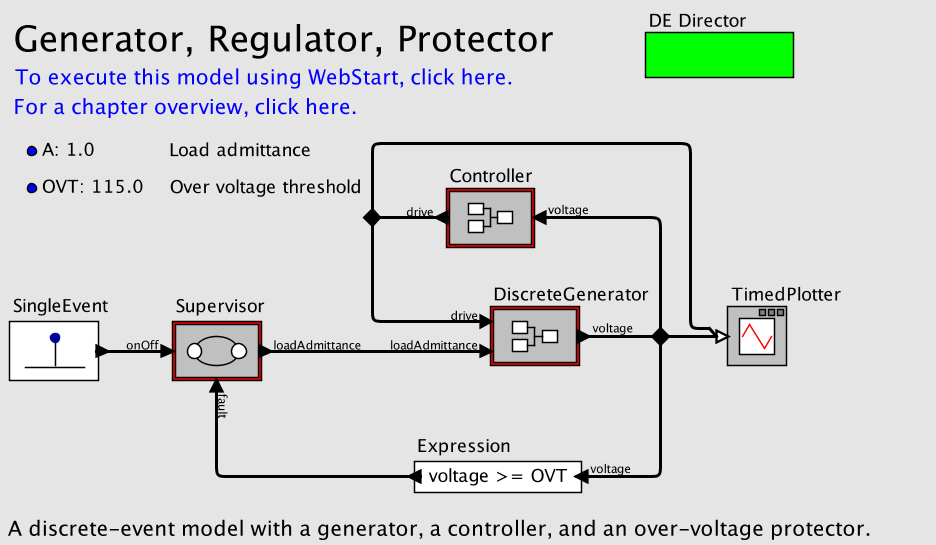
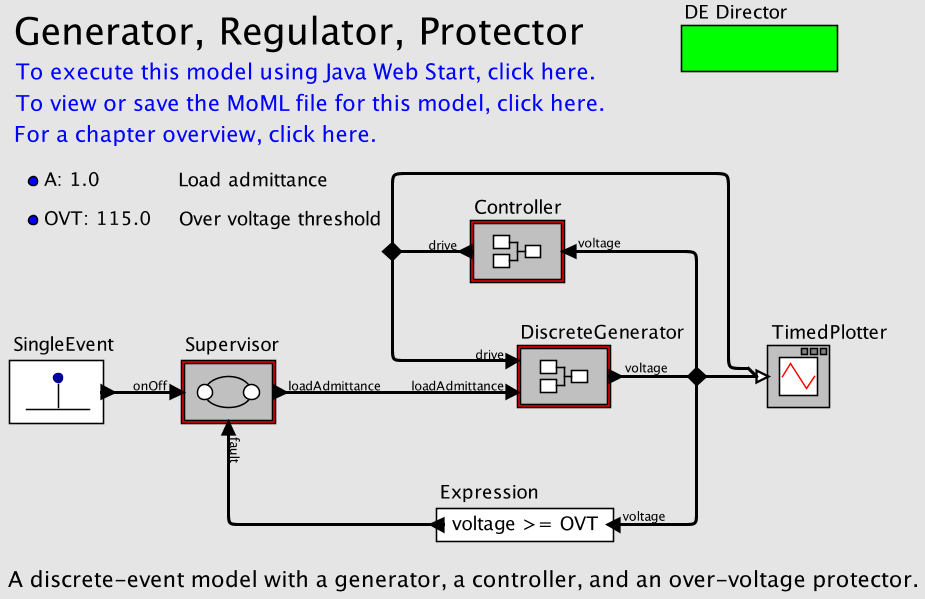
Changed URL for webstart version

Changed region(s): [[0.0, 0.0312, 0.9686, 0.9046], [0.0, 0.9358, 0.9989, 0.9982], [0.6659, 0.0, 0.9081, 0.156]]

diff --git a/doc/books/systems/intro/GeneratorRegulatorProtector/index.html b/doc/books/systems/intro/GeneratorRegulatorProtector/index.html
@@ -17,22 +17,24 @@ function writeText(text) {
 <div style="background-color:#e5e5e5">
 <img src="GeneratorRegulatorProtector.png" usemap="#iconmap" alt="GeneratorRegulatorProtectormodel"/>
 <map name="iconmap" id="iconmap">
-<area shape="rect" coords="11,93,359,121"
+<area shape="rect" coords="11,120,378,150"
  target="_blank" href="http://ptolemy.org/systems/intro/index.html" alt="Actor"/>
-<area shape="rect" coords="11,64,515,92"
- target="_blank" href="http://ptolemy.org/systems/intro/GeneratorRegulatorProtectorWS/index.html" alt="Actor"/>
-<area shape="rect" coords="437,179,543,255"
- title="Controller" onmouseout="writeText('Mouse over the icons to see their parameters.  Click on composites and plotters to reveal their contents (if provided).')" href="Controller/index.html" onmouseover="writeText('&lt;h2&gt;Controller&lt;/h2&gt;&lt;table border=&quot;1&quot;&gt;&lt;tr&gt;&lt;td&gt;&lt;b&gt;Parameter&lt;/b&gt;&lt;/td&gt;&lt;td&gt;&lt;b&gt;Expression&lt;/b&gt;&lt;/td&gt;&lt;td&gt;&lt;b&gt;Value&lt;/b&gt;&lt;/td&gt;&lt;/tr&gt;&lt;tr&gt;&lt;td&gt;_flipPortsHorizontal&lt;/td&gt;&lt;td&gt;true&lt;/td&gt;&lt;td&gt;true&lt;/td&gt;&lt;/tr&gt;&lt;/table&gt;')" alt="Controller"/>
-<area shape="rect" coords="482,298,587,374"
- title="DiscreteGenerator" onmouseout="writeText('Mouse over the icons to see their parameters.  Click on composites and plotters to reveal their contents (if provided).')" href="DiscreteGenerator/index.html" onmouseover="writeText('&lt;h2&gt;DiscreteGenerator&lt;/h2&gt;&lt;table border=&quot;1&quot;&gt;&lt;tr&gt;&lt;td&gt;&lt;b&gt;Parameter&lt;/b&gt;&lt;/td&gt;&lt;td&gt;&lt;b&gt;Expression&lt;/b&gt;&lt;/td&gt;&lt;td&gt;&lt;b&gt;Value&lt;/b&gt;&lt;/td&gt;&lt;/tr&gt;&lt;tr&gt;&lt;td&gt;T&lt;/td&gt;&lt;td&gt;5.0&lt;/td&gt;&lt;td&gt;5.0&lt;/td&gt;&lt;/tr&gt;&lt;tr&gt;&lt;td&gt;Z&lt;/td&gt;&lt;td&gt;1.0&lt;/td&gt;&lt;td&gt;1.0&lt;/td&gt;&lt;/tr&gt;&lt;tr&gt;&lt;td&gt;P&lt;/td&gt;&lt;td&gt;1.0&lt;/td&gt;&lt;td&gt;1.0&lt;/td&gt;&lt;/tr&gt;&lt;/table&gt;')" alt="DiscreteGenerator"/>
-<area shape="rect" coords="163,313,269,389"
- title="Supervisor" onmouseout="writeText('Mouse over the icons to see their parameters.  Click on composites and plotters to reveal their contents (if provided).')" href="Supervisor/index.html" alt="Supervisor"/>
-<area shape="rect" coords="410,457,585,496"
+<area shape="rect" coords="11,89,607,118"
+ target="_blank" href="http://ptolemy.org/systems/intro/GeneratorRegulatorProtector.xml" alt="Actor"/>
+<area shape="rect" coords="11,58,597,87"
+ target="_blank" href="http://ptolemy.org/systems/models/intro/GeneratorRegulatorProtector.htm" alt="Actor"/>
+<area shape="rect" coords="461,211,572,291"
+ title="Controller" onmouseout="writeText('Mouse over the icons to see their parameters.  Click on composites and plotters to reveal their contents (if provided).')" onmouseover="writeText('&lt;h2&gt;Controller&lt;/h2&gt;&lt;table border=&quot;1&quot;&gt;&lt;tr&gt;&lt;td&gt;&lt;b&gt;Parameter&lt;/b&gt;&lt;/td&gt;&lt;td&gt;&lt;b&gt;Expression&lt;/b&gt;&lt;/td&gt;&lt;td&gt;&lt;b&gt;Value&lt;/b&gt;&lt;/td&gt;&lt;/tr&gt;&lt;tr&gt;&lt;td&gt;_flipPortsHorizontal&lt;/td&gt;&lt;td&gt;true&lt;/td&gt;&lt;td&gt;true&lt;/td&gt;&lt;/tr&gt;&lt;/table&gt;')" alt="Controller"/>
+<area shape="rect" coords="508,336,619,416"
+ title="DiscreteGenerator" onmouseout="writeText('Mouse over the icons to see their parameters.  Click on composites and plotters to reveal their contents (if provided).')" onmouseover="writeText('&lt;h2&gt;DiscreteGenerator&lt;/h2&gt;&lt;table border=&quot;1&quot;&gt;&lt;tr&gt;&lt;td&gt;&lt;b&gt;Parameter&lt;/b&gt;&lt;/td&gt;&lt;td&gt;&lt;b&gt;Expression&lt;/b&gt;&lt;/td&gt;&lt;td&gt;&lt;b&gt;Value&lt;/b&gt;&lt;/td&gt;&lt;/tr&gt;&lt;tr&gt;&lt;td&gt;T&lt;/td&gt;&lt;td&gt;5.0&lt;/td&gt;&lt;td&gt;5.0&lt;/td&gt;&lt;/tr&gt;&lt;tr&gt;&lt;td&gt;Z&lt;/td&gt;&lt;td&gt;1.0&lt;/td&gt;&lt;td&gt;1.0&lt;/td&gt;&lt;/tr&gt;&lt;tr&gt;&lt;td&gt;P&lt;/td&gt;&lt;td&gt;1.0&lt;/td&gt;&lt;td&gt;1.0&lt;/td&gt;&lt;/tr&gt;&lt;/table&gt;')" alt="DiscreteGenerator"/>
+<area shape="rect" coords="172,352,283,431"
+ title="Supervisor" onmouseout="writeText('Mouse over the icons to see their parameters.  Click on composites and plotters to reveal their contents (if provided).')" onmouseover="writeText('&lt;h2&gt;Supervisor&lt;/h2&gt;&lt;table border=&quot;1&quot;&gt;&lt;tr&gt;&lt;td&gt;&lt;b&gt;Parameter&lt;/b&gt;&lt;/td&gt;&lt;td&gt;&lt;b&gt;Expression&lt;/b&gt;&lt;/td&gt;&lt;td&gt;&lt;b&gt;Value&lt;/b&gt;&lt;/td&gt;&lt;/tr&gt;&lt;tr&gt;&lt;td&gt;stateDependentCausality&lt;/td&gt;&lt;td&gt;false&lt;/td&gt;&lt;td&gt;false&lt;/td&gt;&lt;/tr&gt;&lt;tr&gt;&lt;td&gt;directorClass&lt;/td&gt;&lt;td&gt;ptolemy.domains.modal.kernel.FSMDirector&lt;/td&gt;&lt;td&gt;ptolemy.domains.modal.kernel.FSMDirector&lt;/td&gt;&lt;/tr&gt;&lt;/table&gt;')" alt="Supervisor"/>
+<area shape="rect" coords="432,504,617,545"
  title="Expression" onmouseout="writeText('Mouse over the icons to see their parameters.  Click on composites and plotters to reveal their contents (if provided).')" onmouseover="writeText('&lt;h2&gt;Expression&lt;/h2&gt;&lt;table border=&quot;1&quot;&gt;&lt;tr&gt;&lt;td&gt;&lt;b&gt;Parameter&lt;/b&gt;&lt;/td&gt;&lt;td&gt;&lt;b&gt;Expression&lt;/b&gt;&lt;/td&gt;&lt;td&gt;&lt;b&gt;Value&lt;/b&gt;&lt;/td&gt;&lt;/tr&gt;&lt;tr&gt;&lt;td&gt;expression&lt;/td&gt;&lt;td&gt;voltage &amp;gt;= OVT&lt;/td&gt;&lt;td&gt;voltage &amp;gt;= OVT&lt;/td&gt;&lt;/tr&gt;&lt;tr&gt;&lt;td&gt;_flipPortsHorizontal&lt;/td&gt;&lt;td&gt;true&lt;/td&gt;&lt;td&gt;true&lt;/td&gt;&lt;/tr&gt;&lt;/table&gt;')" alt="Expression"/>
-<area shape="rect" coords="1,313,106,389"
+<area shape="rect" coords="1,352,112,431"
  title="SingleEvent" onmouseout="writeText('Mouse over the icons to see their parameters.  Click on composites and plotters to reveal their contents (if provided).')" onmouseover="writeText('&lt;h2&gt;SingleEvent&lt;/h2&gt;&lt;table border=&quot;1&quot;&gt;&lt;tr&gt;&lt;td&gt;&lt;b&gt;Parameter&lt;/b&gt;&lt;/td&gt;&lt;td&gt;&lt;b&gt;Expression&lt;/b&gt;&lt;/td&gt;&lt;td&gt;&lt;b&gt;Value&lt;/b&gt;&lt;/td&gt;&lt;/tr&gt;&lt;tr&gt;&lt;td&gt;time&lt;/td&gt;&lt;td&gt;15.0&lt;/td&gt;&lt;td&gt;15.0&lt;/td&gt;&lt;/tr&gt;&lt;tr&gt;&lt;td&gt;value&lt;/td&gt;&lt;td&gt;true&lt;/td&gt;&lt;td&gt;true&lt;/td&gt;&lt;/tr&gt;&lt;/table&gt;')" alt="SingleEvent"/>
-<area shape="rect" coords="718,298,794,374"
- title="TimedPlotter" onmouseout="writeText('Mouse over the icons to see their parameters.  Click on composites and plotters to reveal their contents (if provided).')" class="iframe" href="TimedPlotter.gif" onmouseover="writeText('&lt;h2&gt;TimedPlotter&lt;/h2&gt;&lt;table border=&quot;1&quot;&gt;&lt;tr&gt;&lt;td&gt;&lt;b&gt;Parameter&lt;/b&gt;&lt;/td&gt;&lt;td&gt;&lt;b&gt;Expression&lt;/b&gt;&lt;/td&gt;&lt;td&gt;&lt;b&gt;Value&lt;/b&gt;&lt;/td&gt;&lt;/tr&gt;&lt;tr&gt;&lt;td&gt;fillOnWrapup&lt;/td&gt;&lt;td&gt;true&lt;/td&gt;&lt;td&gt;true&lt;/td&gt;&lt;/tr&gt;&lt;tr&gt;&lt;td&gt;automaticRescale&lt;/td&gt;&lt;td&gt;false&lt;/td&gt;&lt;td&gt;false&lt;/td&gt;&lt;/tr&gt;&lt;tr&gt;&lt;td&gt;legend&lt;/td&gt;&lt;td&gt;drive, voltage&lt;/td&gt;&lt;td&gt;drive, voltage&lt;/td&gt;&lt;/tr&gt;&lt;tr&gt;&lt;td&gt;startingDataset&lt;/td&gt;&lt;td&gt;0&lt;/td&gt;&lt;td&gt;0&lt;/td&gt;&lt;/tr&gt;&lt;tr&gt;&lt;td&gt;disconnectGraphOnAbsentValue&lt;/td&gt;&lt;td&gt;false&lt;/td&gt;&lt;td&gt;false&lt;/td&gt;&lt;/tr&gt;&lt;tr&gt;&lt;td&gt;useLocalTime&lt;/td&gt;&lt;td&gt;false&lt;/td&gt;&lt;td&gt;false&lt;/td&gt;&lt;/tr&gt;&lt;/table&gt;')" alt="TimedPlotter"/>
+<area shape="rect" coords="758,336,838,416"
+ title="TimedPlotter" onmouseout="writeText('Mouse over the icons to see their parameters.  Click on composites and plotters to reveal their contents (if provided).')" onmouseover="writeText('&lt;h2&gt;TimedPlotter&lt;/h2&gt;&lt;table border=&quot;1&quot;&gt;&lt;tr&gt;&lt;td&gt;&lt;b&gt;Parameter&lt;/b&gt;&lt;/td&gt;&lt;td&gt;&lt;b&gt;Expression&lt;/b&gt;&lt;/td&gt;&lt;td&gt;&lt;b&gt;Value&lt;/b&gt;&lt;/td&gt;&lt;/tr&gt;&lt;tr&gt;&lt;td&gt;fillOnWrapup&lt;/td&gt;&lt;td&gt;true&lt;/td&gt;&lt;td&gt;true&lt;/td&gt;&lt;/tr&gt;&lt;tr&gt;&lt;td&gt;automaticRescale&lt;/td&gt;&lt;td&gt;false&lt;/td&gt;&lt;td&gt;false&lt;/td&gt;&lt;/tr&gt;&lt;tr&gt;&lt;td&gt;legend&lt;/td&gt;&lt;td&gt;drive, voltage&lt;/td&gt;&lt;td&gt;drive, voltage&lt;/td&gt;&lt;/tr&gt;&lt;tr&gt;&lt;td&gt;startingDataset&lt;/td&gt;&lt;td&gt;0&lt;/td&gt;&lt;td&gt;0&lt;/td&gt;&lt;/tr&gt;&lt;tr&gt;&lt;td&gt;disconnectGraphOnAbsentValue&lt;/td&gt;&lt;td&gt;false&lt;/td&gt;&lt;td&gt;false&lt;/td&gt;&lt;/tr&gt;&lt;tr&gt;&lt;td&gt;useLocalTime&lt;/td&gt;&lt;td&gt;false&lt;/td&gt;&lt;td&gt;false&lt;/td&gt;&lt;/tr&gt;&lt;/table&gt;')" alt="TimedPlotter"/>
 </map>
 
 <div id="afterImage">

diff --git a/doc/books/systems/intro/index.html b/doc/books/systems/intro/index.html
@@ -2,11 +2,11 @@
 <html>
 <head>
 <meta charset=utf-8>
-<title>GeneratorRegulatorProtector</title>
+<title>Chapter 1: Heterogeneous Modeling</title>
 </head>
 <body>
 <h1>
-Chapter 1
+Chapter 1: Heterogeneous Modeling
 </h1>
 Executable models in chapter 1:
 <ul>
